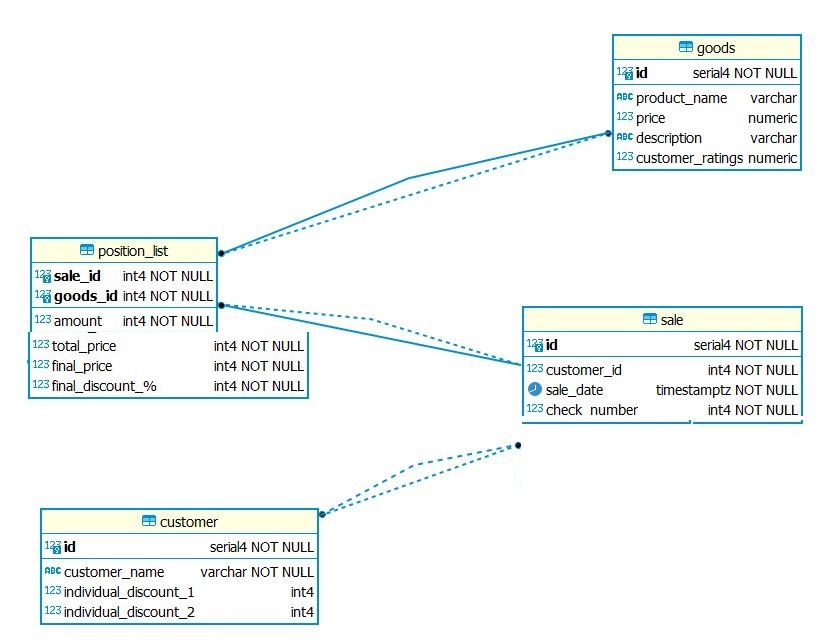
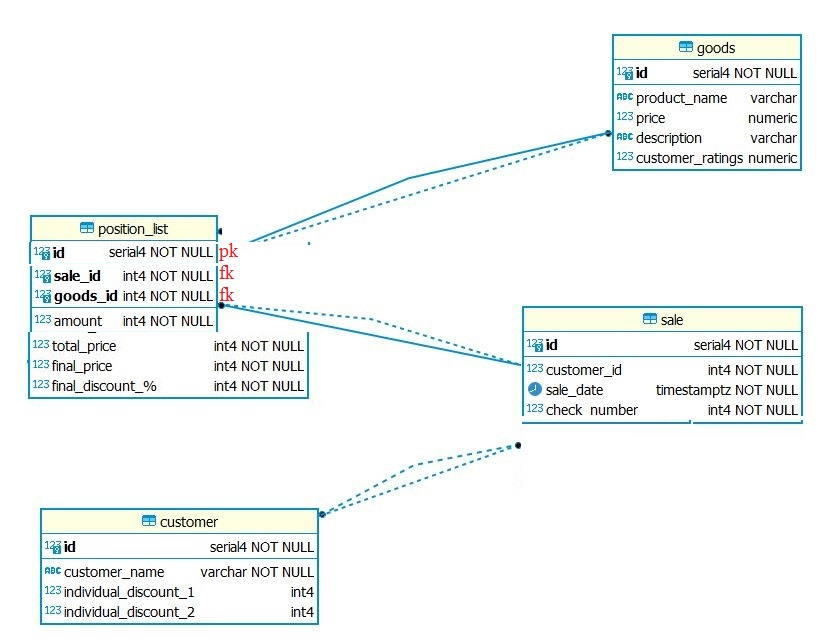
added one-to-many and many-to-one relationships in tables

Changed region(s): [[0.0311, 0.3115, 0.311, 0.4673]]

diff --git a/src/main/java/com/maksimtebenkov/springboot/springboot_soap/entity/PositionList.java b/src/main/java/com/maksimtebenkov/springboot/springboot_soap/entity/PositionList.java
@@ -1,19 +1,23 @@
 package com.maksimtebenkov.springboot.springboot_soap.entity;
 
-import javax.persistence.Column;
-import javax.persistence.Entity;
-import javax.persistence.Table;
+import javax.persistence.*;
 import java.math.BigDecimal;
 
 @Entity
-@Table(name = "positin_list")
+@Table(name = "position_list")
 public class PositionList {
-//fk
-    @Column(name = "sale_id")
-    private int saleId;
-//fk
-    @Column(name = "goods_id")
-    private int goodsId;
+
+    @Id
+    @Column(name = "positin_list_id")
+    private int id;
+
+    @ManyToOne(cascade = CascadeType.ALL)//поменять CascadeType.ALL
+    @JoinColumn(name = "sale_id")
+    private Sale sale;
+
+    @ManyToOne(cascade = CascadeType.ALL)//поменять CascadeType.ALL
+    @JoinColumn(name = "goods_id")
+    private Goods goods;
 
     @Column(name = "total_price", nullable = false)
     private BigDecimal totalPrice;
@@ -33,20 +37,28 @@ public class PositionList {
         this.finalDiscountInPercent = finalDiscountInPercent;
     }
 
-    public int getSaleId() {
-        return saleId;
+    public int getId() {
+        return id;
     }
 
-    public void setSaleId(int saleId) {
-        this.saleId = saleId;
+    public void setId(int id) {
+        this.id = id;
     }
 
-    public int getGoodsId() {
-        return goodsId;
+    public Sale getSale() {
+        return sale;
     }
 
-    public void setGoodsId(int goodsId) {
-        this.goodsId = goodsId;
+    public void setSale(Sale sale) {
+        this.sale = sale;
+    }
+
+    public Goods getGoods() {
+        return goods;
+    }
+
+    public void setGoods(Goods goods) {
+        this.goods = goods;
     }
 
     public BigDecimal getTotalPrice() {

diff --git a/src/main/java/com/maksimtebenkov/springboot/springboot_soap/entity/Sale.java b/src/main/java/com/maksimtebenkov/springboot/springboot_soap/entity/Sale.java
@@ -1,25 +1,29 @@
 package com.maksimtebenkov.springboot.springboot_soap.entity;
 
 import javax.persistence.*;
-import java.math.BigDecimal;
 import java.time.LocalDateTime;
+import java.util.List;
 
 @Table(name = "sale")
 public class Sale {
 
     @Id
     @GeneratedValue(strategy = GenerationType.IDENTITY)
-    @Column(name = "id")
+    @Column(name = "id", nullable = false)
     private int id;
 
-    @Column(name = "customer_id")
+    @Column(name = "customer_id", nullable = false)
     private int customerId;
 
-    @Column(name = "sale_date")
+    @Column(name = "sale_date", nullable = false)
     private LocalDateTime date;
 
-    @Column(name = "check_number")
+    @Column(name = "check_number", nullable = false)
     private int checkNumber;
+
+    @OneToMany(cascade = CascadeType.ALL, mappedBy = "sale")
+    private List<PositionList> positionLists;
+
 
     public Sale() {
     }
@@ -28,7 +32,6 @@ public class Sale {
         this.customerId = customerId;
         this.date = date;
         this.checkNumber = checkNumber;
-
     }
 
     public int getId() {
@@ -63,4 +66,21 @@ public class Sale {
         this.checkNumber = checkNumber;
     }
 
+    public List<PositionList> getPositionLists() {
+        return positionLists;
+    }
+
+    public void setPositionLists(List<PositionList> positionLists) {
+        this.positionLists = positionLists;
+    }
+
+    @Override
+    public String toString() {
+        return "Sale{" +
+                "id=" + id +
+                ", customerId=" + customerId +
+                ", date=" + date +
+                ", checkNumber=" + checkNumber +
+                '}';
+    }
 }

diff --git a/src/main/java/com/maksimtebenkov/springboot/springboot_soap/entity/Goods.java b/src/main/java/com/maksimtebenkov/springboot/springboot_soap/entity/Goods.java
@@ -2,6 +2,7 @@ package com.maksimtebenkov.springboot.springboot_soap.entity;
 
 import javax.persistence.*;
 import java.math.BigDecimal;
+import java.util.List;
 
 @Entity
 @Table(name = "goods")
@@ -9,7 +10,7 @@ public class Goods {
 
     @Id
     @GeneratedValue(strategy = GenerationType.IDENTITY)
-    @Column(name = "id")
+    @Column(name = "goods_id",nullable = false)
     private int id;
 
     @Column(name = "product_name")
@@ -23,6 +24,9 @@ public class Goods {
 
     @Column(name = "customer_ratings")
     private BigDecimal customerRatings;
+
+    @OneToMany(cascade = CascadeType.ALL, mappedBy = "goods")
+    private List<PositionList> positionList;
 
     public Goods() {
     }
@@ -72,5 +76,16 @@ public class Goods {
 
     public void setCustomerRatings(BigDecimal customerRatings) {
         this.customerRatings = customerRatings;
+    }
+
+    @Override
+    public String toString() {
+        return "Goods{" +
+                "id=" + id +
+                ", ProductName='" + ProductName + '\'' +
+                ", price=" + price +
+                ", description='" + description + '\'' +
+                ", customerRatings=" + customerRatings +
+                '}';
     }
 }

diff --git a/src/main/java/com/maksimtebenkov/springboot/springboot_soap/entity/Customer.java b/src/main/java/com/maksimtebenkov/springboot/springboot_soap/entity/Customer.java
@@ -8,7 +8,7 @@ public class Customer {
 
     @Id
     @GeneratedValue(strategy = GenerationType.IDENTITY)
-    @Column(name = "id")
+    @Column(name = "customer_id",nullable = false)
     private int id;
 
     @Column(name = "customer_name")
@@ -29,9 +29,6 @@ public class Customer {
         this.individualDiscount1 = individualDiscount1;
         this.individualDiscount2 = individualDiscount2;
     }
-
-
-
 
     public int getId() {
         return id;

diff --git a/src/main/java/com/maksimtebenkov/springboot/springboot_soap/dao/PositionListRepository.java b/src/main/java/com/maksimtebenkov/springboot/springboot_soap/dao/PositionListRepository.java
@@ -2,6 +2,8 @@ package com.maksimtebenkov.springboot.springboot_soap.dao;
 
 import com.maksimtebenkov.springboot.springboot_soap.entity.PositionList;
 import org.springframework.data.jpa.repository.JpaRepository;
+import org.springframework.stereotype.Repository;
 
+@Repository
 public interface PositionListRepository extends JpaRepository<PositionList,Integer> {
 }
